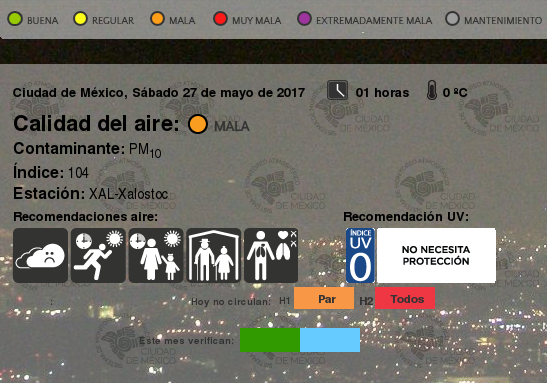
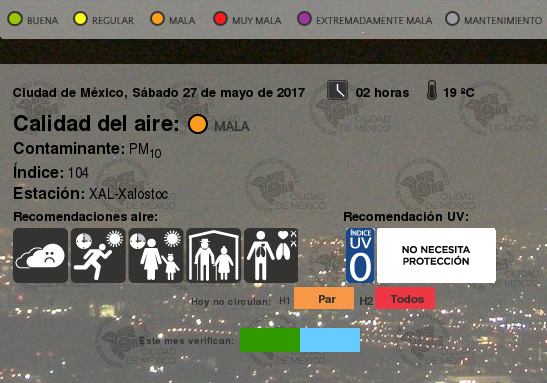
update images 27-05-2017 02:20

diff --git a/README.md b/README.md
@@ -2712,3 +2712,4 @@
 |27-05-2017 01:50
 |27-05-2017 02:03
 |27-05-2017 02:11
+|27-05-2017 02:20
